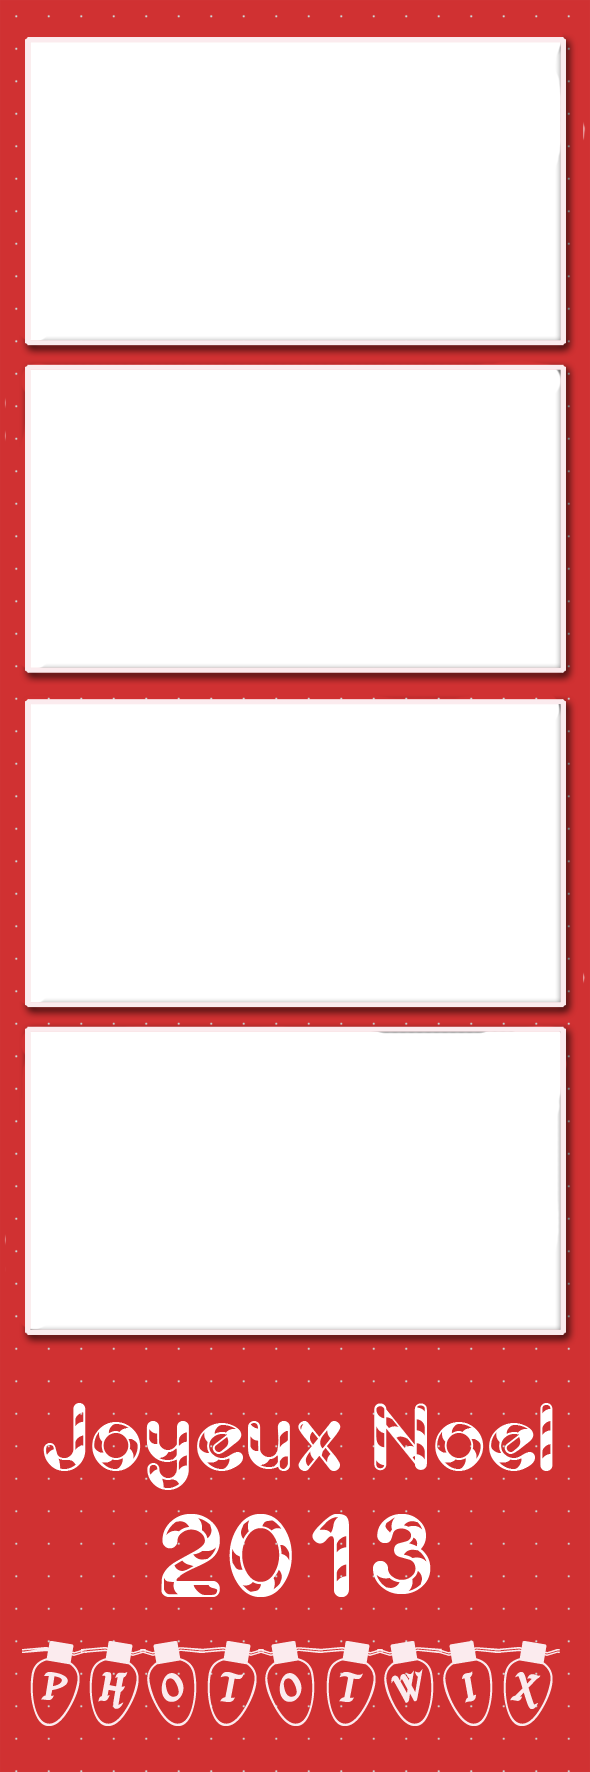
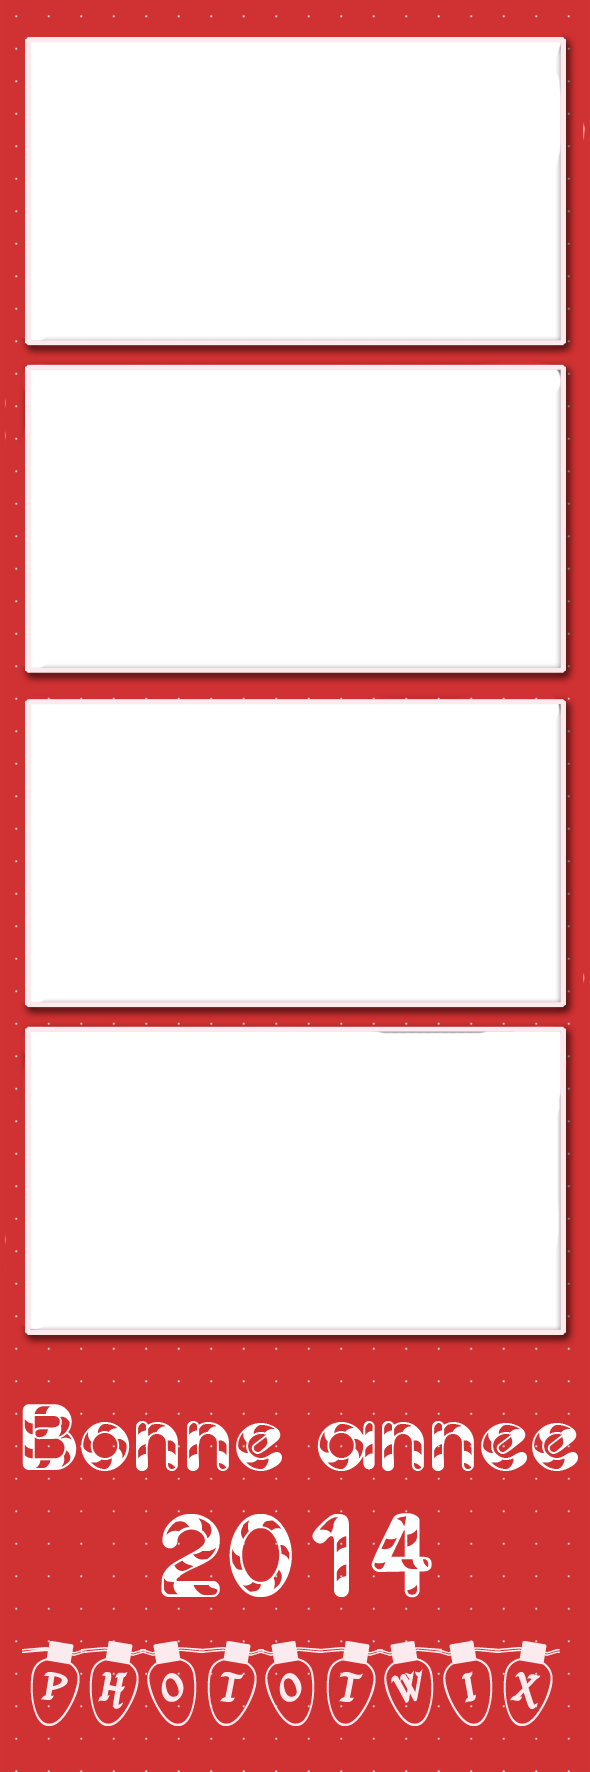
bugfix usb

Changed region(s): [[0.0305, 0.776, 0.9763, 0.9001]]

diff --git a/server_copyUsb.js b/server_copyUsb.js
@@ -1,14 +1,16 @@
  var fs = require('fs');
- var fse = require('fs-extra');
+ var fs = require('fs-extra');
  var path = require('path');
  var copysync = require('copysync');
  
+ var g_files;
  var g_socket;
  var g_current_copy = 0;
  var g_max_copy = 0;
+ var drive = "";
  
  var startCopy = function() {
-	var drive = "";
+	drive = "";
 	//Find the USB key
 	g_current_copy = 0;
 	for (var i = 100; i <= 120; i++) {
@@ -28,47 +30,41 @@
 		return;
 	}
  
-	var files = fs.readdirSync('./public/photos/result');
-	g_max_copy = files.length;
-	for (var i in files) {
-		console.log("Copy file ./public/photos/result/" + files[i] + " to " + drive + 'phototwix/' + path.basename(files[i]));
-  		g_current_copy++;
-		sendMessage();		
-		//copyFileSync('./public/photos/result/' + files[i], drive + 'phototwix/' + path.basename(files[i]));
-	}
-	
+	g_files = fs.readdirSync('./public/photos/result');
+	g_max_copy = g_files.length;
+	g_current_copy = 0;
+	copy_next();
  }
  
- function copyFileSync(srcFile, destFile) {
-  var BUF_LENGTH, buff, bytesRead, fdr, fdw, pos;
-  BUF_LENGTH = 64 * 1024;
-  buff = new Buffer(BUF_LENGTH);
-  fdr = fs.openSync(srcFile, "r");
-  fdw = fs.openSync(destFile, "w");
-  bytesRead = 1;
-  pos = 0;
-  while (bytesRead > 0) {
-    bytesRead = fs.readSync(fdr, buff, 0, BUF_LENGTH, pos);
- //   fs.writeSync(fdw, buff, 0, bytesRead);
-    pos += bytesRead;
-  }
-  fs.closeSync(fdr);
-
-  return fs.closeSync(fdw);
-};
+ function copy_next() {
+	console.log("Copy file ./public/photos/result/" + g_files[g_current_copy] + " to " + drive + 'phototwix/' + path.basename(g_files[g_current_copy]));
+	if (g_current_copy < g_max_copy) {
+		fs.copy('./public/photos/result/' + g_files[g_current_copy], drive + 'phototwix/' + path.basename(g_files[g_current_copy]), function(err) {
+			if (err) {
+				g_socket.emit('copyUsbError');
+			} else {		
+				sendMessage();
+				g_current_copy++;
+				if (g_current_copy < g_max_copy) {
+					copy_next();
+				}
+			}
+		});
+	}
+ }
  
  function setSocket(socket) {
-	console.log('Socket set');
+	console.log('Socket set USB ');
 	g_socket = socket;
 }
 
 function sendMessage() {
-	g_socket.emit("copyUsbProgress", {
-		current:g_current_copy,
+	g_socket.emit('copyUsbProgress', {
+		current:g_current_copy + 1,
 		total:g_max_copy
 	});	//Send a message
 }
 
- exports.setSocket = setSocket;	
+exports.setSocket = setSocket;	
  
 exports.startCopy = startCopy;

diff --git a/server_photoPrint.js b/server_photoPrint.js
@@ -1,10 +1,13 @@
 var fs = require('fs');
+var fs = require('fs-extra');
 var Canvas = require('canvas');
 var Winreg = require('winreg');
 var log = function () {};
 
 
 var iv_path = '"' + __dirname + '/bin/IrfanView/i_view32.exe' + '"';
+
+var iv_path_short = 'bin/IrfanView/';
 
 var imt_path = '';
 
@@ -21,6 +24,12 @@ function printPhoto(printObject) {
 	img.src = data;
 	
 
+	if (img.height < img.width) {
+		select_orientation(true);
+	} else {
+		select_orientation(false);
+	}
+	
 	if (img.height / img.width > 2) {
 		//Image has to be duplicate, and cutter has to be twice
 		var canvas = new Canvas(img.width * 2, img.height);
@@ -35,6 +44,14 @@ function printPhoto(printObject) {
 		img_path = photo_big;
 		load_printer_json('./conf/printer_nocut.json', print);
 		//direct print photo, no problem
+	}
+}
+
+function select_orientation(landscape, callback) {
+	if (landscape) {
+		fs.copySync(iv_path_short + 'i_view32_landscape.ini', iv_path_short + 'i_view32.ini');
+	} else {
+		fs.copySync(iv_path_short + 'i_view32_portrait.ini', iv_path_short + 'i_view32.ini');
 	}
 }
 

diff --git a/public/js/client_usb_copy.js b/public/js/client_usb_copy.js
@@ -15,13 +15,17 @@ function init_copy_socket() {
 	   $("#copy_progress_value")[0].style.width = p.toString() + "%";
 	   $("#copy_progress_value_txt")[0].innerHTML = data.current + "/" + data.total;
 	});
+	g_socket.on('copyUsbError', function (data) {
+	   $("#copy_txt")[0].innerHTML = "Echec lors de la copie";
+	});	
+	
 }
 
 function usb_copy_start() {
 	$("#copy_txt")[0].innerHTML = "Copie en cours";
 	$.post( "copyUsb")
 	.done(function() {
-		$("#copy_txt")[0].innerHTML = "Copie terminée";
+		$("#copy_txt")[0].innerHTML = "Copie";
 	})
 	.fail(function(data) {
 		$("#copy_txt")[0].innerHTML = "Echec lors de la copie";

diff --git a/public/js/client_init.js b/public/js/client_init.js
@@ -3,13 +3,13 @@ function init_photomaton() {
 	getParameter();
 	initControl();
 	initCamera();
+	init_copy_socket();
 	requestAllPhoto();
 }
 
 //Initialise la connexion avec le server node.js avec https
 function initSocket() {
 	g_socket = io.connect(g_server_address, {secure: true});
-	init_copy_socket();
 }
 
 //Initialise la webcam

diff --git a/public/js/client_control.js b/public/js/client_control.js
@@ -56,8 +56,7 @@ function init_arduino_control() {
 	
 	g_socket.on('buttonParameter', function (data) { //When button buttonParameter is press (hold USB button)
 	   buttonParameter();
-	});	
-	
+	});
 }
 
 function init_keyboard_control() {

diff --git a/public/template/template_default/change_template_1.jsx b/public/template/template_default/change_template_1.jsx
@@ -69,7 +69,7 @@ try {
     // the front document
 } catch(e) {}
 
-changeText("Joyeux Noel", 45, "2013", 45, "2013", 45);
+changeText("Bonne annee", 45, "2014", 45, "Text 3", 45);
 savePng();
 
 

diff --git a/public/template/template_default/change_template_2.jsx b/public/template/template_default/change_template_2.jsx
@@ -69,7 +69,7 @@ try {
     // the front document
 } catch(e) {}
 
-changeText("Joyeux Noel", 85, "2013", 85, "2013", 85);
+changeText("Bonne annee", 85, "2014", 85, "Text 3", 85);
 savePng();
 
 

diff --git a/public/template/template_default/change_template_3.jsx b/public/template/template_default/change_template_3.jsx
@@ -69,7 +69,7 @@ try {
     // the front document
 } catch(e) {}
 
-changeText("Joyeux Noel", 80, "2013", 80, "2013", 80);
+changeText("Bonne annee", 80, "2014", 80, "Text 3", 80);
 savePng();
 
 

diff --git a/server_arduino.js b/server_arduino.js
@@ -252,7 +252,7 @@ function add_photo() {
 }
 
 function setSocket(socket) {
-	console.log('Socket set');
+	console.log('Socket set Arduino');
 	g_socket = socket;
 }
 
